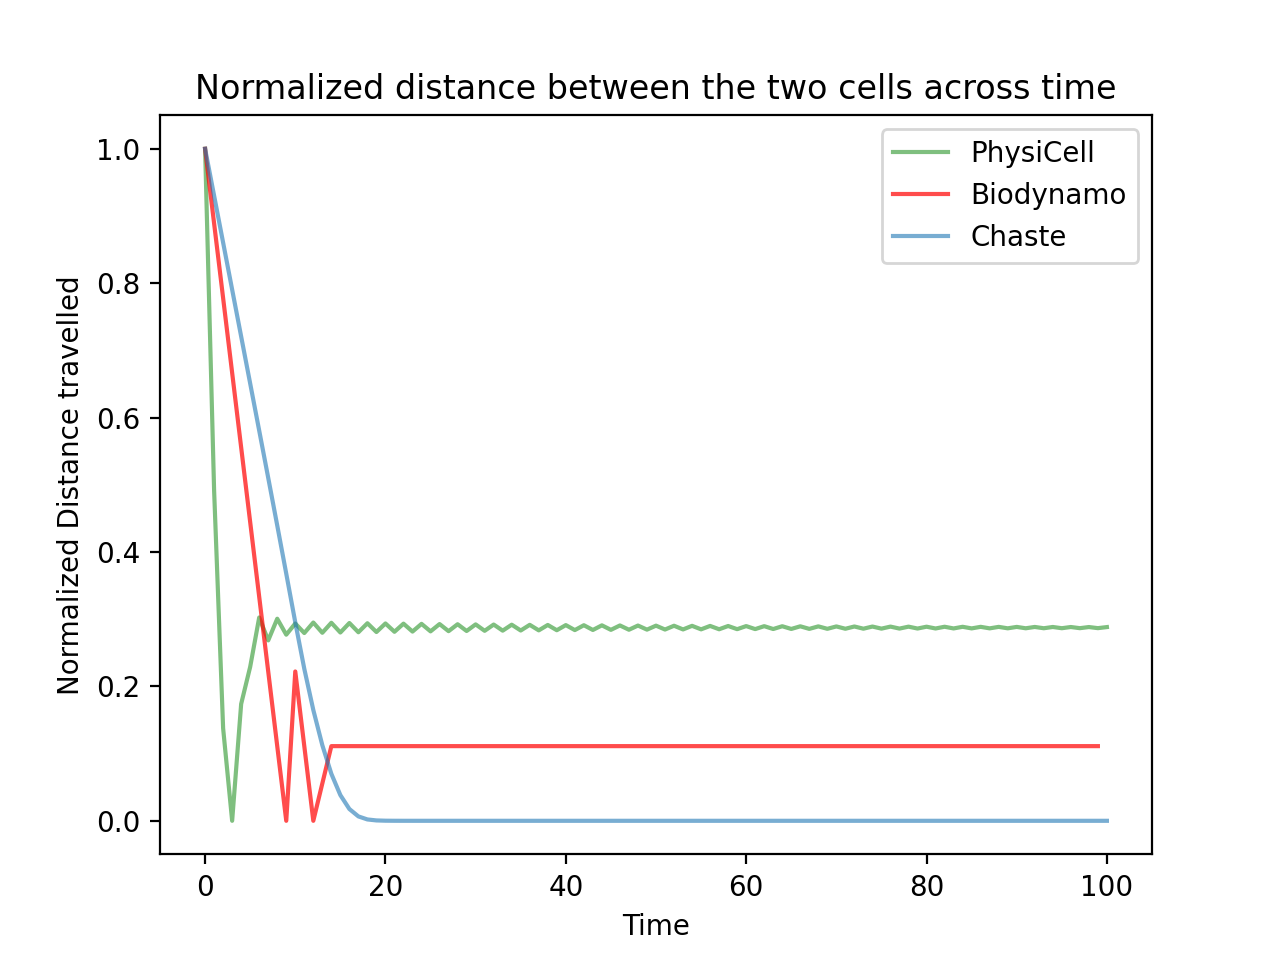
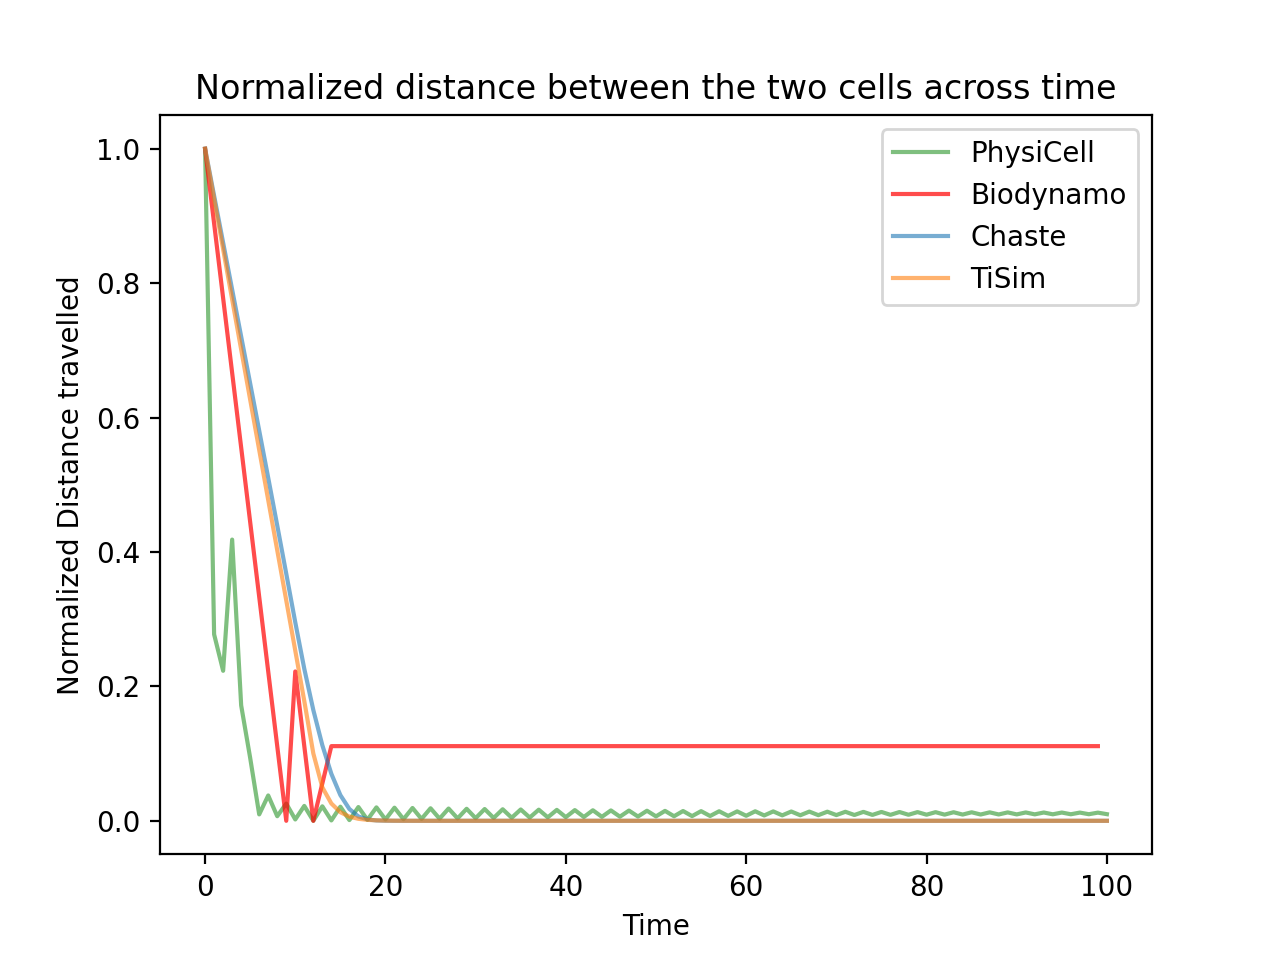
fixed mechanics pushing

diff --git a/multiscale_benchmark/2022_09_hackathon/analysis/plot_mechanics_pushing.py b/multiscale_benchmark/2022_09_hackathon/analysis/plot_mechanics_pushing.py
@@ -11,12 +11,16 @@ from sklearn.preprocessing import MinMaxScaler
 def get_physicell_df(file):
     df = pd.read_csv(file,index_col=0,float_precision='round_trip').sort_values(by=['dt']).reset_index(drop=True)
     pc_dist =  abs(df[df['id']==0]['x'].reset_index() - df[df['id']==1]['x'].reset_index())
-    pc_dista= df[df['id']==0]['radius'].reset_index() + df[df['id']==1]['radius'].reset_index()['radius']
+    pc_dista= df[df['id']==0]['radius'].reset_index()
     # +2*df[df['id']==0]['radius']  
     pc_dist['dt'] = df['dt'].unique()
+    pa= df[df['id']==0]['radius'].reset_index() + df[df['id']==1]['radius'].reset_index()
+    pc_dist['radius'] = pa["radius"]
+    
     pc_dist.rename({"x":"dx"},inplace=True,axis=1)
     pc_dist.drop("index",axis=1,inplace=True)
-    # print(df[df['id']==0]['radius'])
+    pc_dist['dxx'] = abs(pc_dist['dx'] - pc_dist['radius'])
+    print(pc_dist)
     return pc_dist
 
 def get_biodynamo_df(file):
@@ -42,7 +46,7 @@ def get_chaste_df(file):
 def plot_distance_moved(pc_data,bd_data,ch_data,ts_data):
     scaler = MinMaxScaler()
 
-    pc_data['normalized_distance'] = scaler.fit_transform(pc_data[["dx"]])
+    pc_data['normalized_distance'] = scaler.fit_transform(pc_data[["dxx"]])
 
     # Normalize distances in DataFrame 2
     bd_data['normalized_distance'] = scaler.fit_transform(bd_data[['dx']])
@@ -55,6 +59,7 @@ def plot_distance_moved(pc_data,bd_data,ch_data,ts_data):
     plt.plot(pc_data.index,pc_data['normalized_distance'],label="PhysiCell", color= 'green',alpha = 0.5)
     plt.plot(bd_data.index,bd_data['normalized_distance'],label="Biodynamo",color= 'red',alpha = 0.7)
     plt.plot(ch_data.index,ch_data['normalized_distance'],label="Chaste",alpha = 0.6)
+    plt.plot(ts_data.index,ts_data['normalized_distance'],label="TiSim",alpha = 0.6)
 
     plt.ylabel(ylabel="Normalized Distance travelled")
     plt.xlabel(xlabel="Time")
